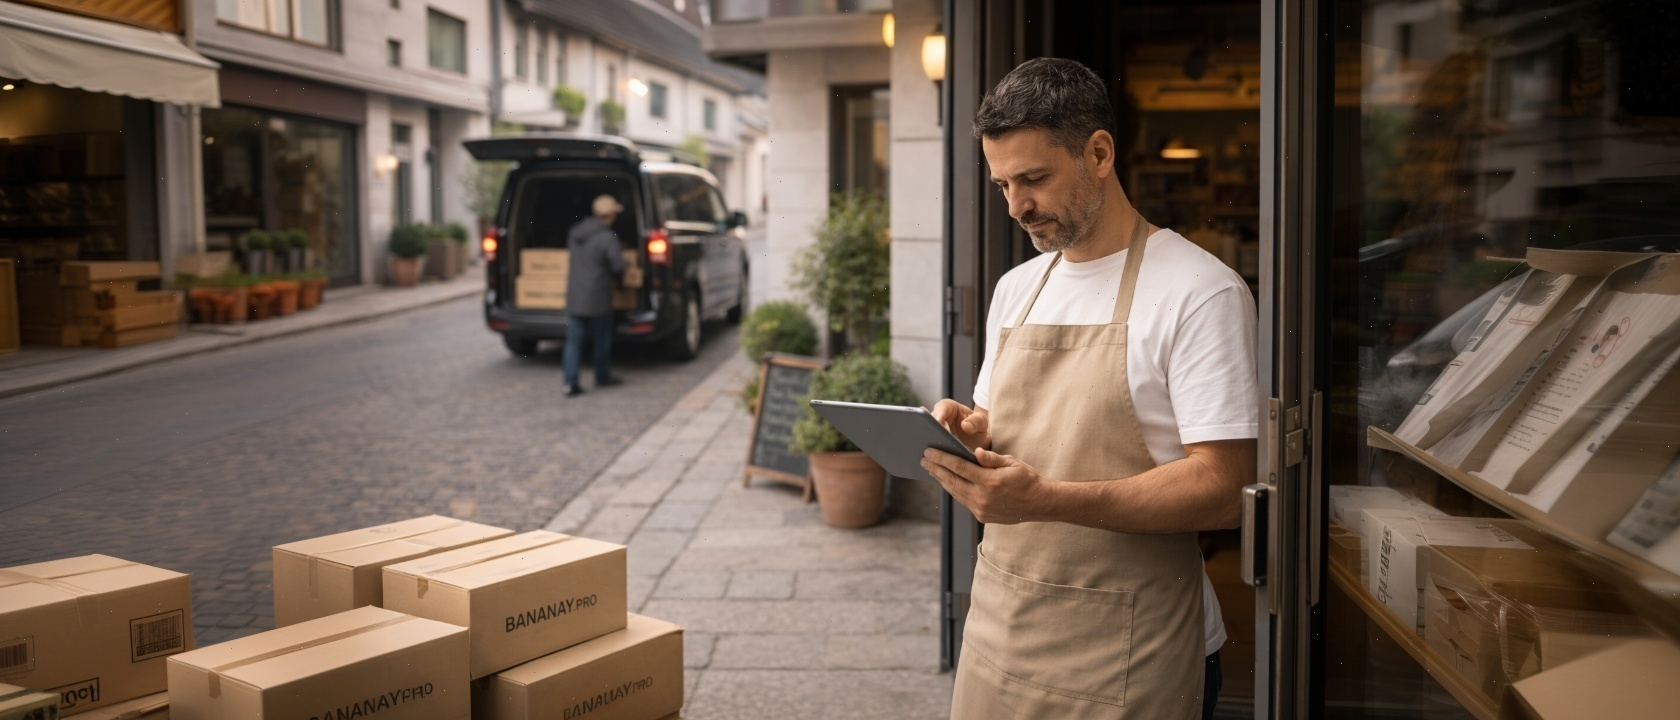
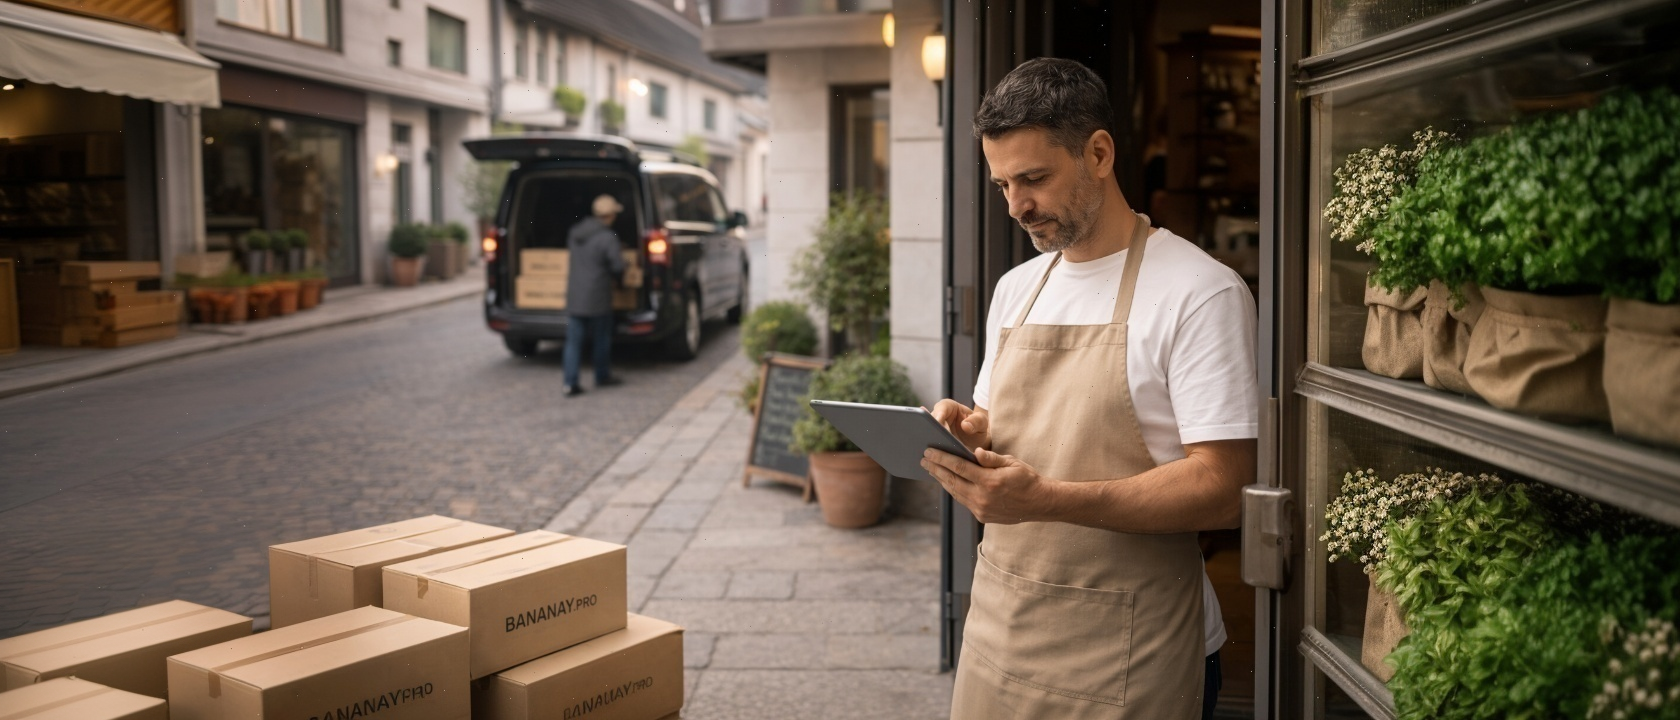
new design

Changed region(s): [[0.65, 0.0, 1.0, 1.0], [0.0, 0.7639, 0.1857, 1.0]]

diff --git a/src/app/[locale]/page.tsx b/src/app/[locale]/page.tsx
@@ -1,107 +1,185 @@
 'use client';
 
-import { useTranslations } from 'next-intl';
+import Image from 'next/image';
 import { useRouter } from '@/i18n/routing';
-import { HeroSection } from '@/components/hero/hero-section';
 import { RedirectWhenAuthenticated } from '@/components/auth/redirect-when-authenticated';
 import { Button } from '@/components/ui/button';
-import { Card } from '@/components/ui/card';
-import { Check, ListChecks, MapPinned, ShieldCheck } from 'lucide-react';
+import { Check } from 'lucide-react';
 
 export default function HomePage() {
-  const t = useTranslations('HowItWorks');
-  const tWhy = useTranslations('WhyBecomeCourier');
-  const tCta = useTranslations('HomeCta');
   const router = useRouter();
+  const steps = [
+    {
+      number: '01',
+      title: 'Видите входящие поставки',
+      text: 'Что едет в ваше заведение и в каком статусе.',
+    },
+    {
+      number: '02',
+      title: 'Отслеживаете доставку',
+      text: 'Где находится поставка и когда прибудет.',
+    },
+    {
+      number: '03',
+      title: 'Смотрите историю',
+      text: 'Все прошлые доставки в одном месте.',
+    },
+  ];
+  const benefits = [
+    'Актуальный статус доставки',
+    'Что едет и когда прибудет',
+    'История всех поставок',
+    'Меньше звонков и уточнений',
+    'Понятный процесс получения',
+  ];
 
   return (
     <RedirectWhenAuthenticated>
-      <div className="flex flex-col">
-        <HeroSection />
+      <div className="flex flex-col bg-white text-slate-900">
+        <section className="relative flex min-h-[75vh] items-center overflow-hidden">
+          <div
+            aria-hidden
+            className="absolute inset-0 bg-cover bg-center bg-no-repeat"
+            style={{ backgroundImage: "url('/hero.png')" }}
+          />
+          <div aria-hidden className="absolute inset-0 bg-slate-950/45" />
+          <div className="relative mx-auto flex min-h-[72vh] max-w-7xl items-center px-4 py-10 sm:px-6 md:py-14 lg:px-8">
+            <div className="flex w-full flex-col justify-center">
+              <h1 className="text-4xl font-bold leading-[1.15] tracking-tight text-white sm:text-5xl lg:text-6xl">
+                Все поставки в ваше заведение - под контролем.
+              </h1>
 
-        {/* Как это работает */}
-        <section className="bg-gray-50 py-6 md:py-8">
-          <div className="mx-auto max-w-6xl px-4 sm:px-6 lg:px-8">
-            <div className="mb-4 text-center">
-              <h2 className="text-2xl font-bold text-[#1e3a8a] md:text-3xl">
-                {t('title')}
-              </h2>
-            </div>
-            <div className="mx-auto grid w-max max-w-full grid-cols-1 gap-3 md:grid-cols-3 md:gap-4 md:[grid-template-columns:repeat(3,minmax(12rem,1fr))]">
-              <Card className="flex min-w-0 max-w-[18rem] flex-col items-center gap-2 border-gray-200 p-4 py-4 text-center shadow-sm md:mx-0 md:min-w-[12rem] md:max-w-[16rem] mx-auto">
-                <h3 className="text-lg font-semibold leading-tight text-gray-800">
-                  <span className="text-[#22c55e]">1 </span>
-                  {t('step1Title')}
-                </h3>
-                <div className="my-0 flex items-center justify-center rounded-full bg-blue-50 p-5">
-                  <MapPinned className="h-12 w-12 text-blue-700" />
-                </div>
-                <p className="mt-0 text-sm text-gray-600">{t('step1Desc')}</p>
-              </Card>
-              <Card className="flex min-w-0 max-w-[18rem] flex-col items-center gap-2 border-gray-200 p-4 py-4 text-center shadow-sm md:mx-0 md:min-w-[12rem] md:max-w-[16rem] mx-auto">
-                <h3 className="text-lg font-semibold leading-tight text-gray-800">
-                  <span className="text-[#22c55e]">2 </span>
-                  {t('step2Title')}
-                </h3>
-                <div className="my-0 flex items-center justify-center rounded-full bg-amber-50 p-5">
-                  <ListChecks className="h-12 w-12 text-amber-600" />
-                </div>
-                <p className="mt-0 text-sm text-gray-600">{t('step2Desc')}</p>
-              </Card>
-              <Card className="flex min-w-0 max-w-[18rem] flex-col items-center gap-2 border-gray-200 p-4 py-4 text-center shadow-sm md:mx-0 md:min-w-[12rem] md:max-w-[16rem] mx-auto">
-                <h3 className="text-lg font-semibold leading-tight text-gray-800">
-                  <span className="text-[#22c55e]">3 </span>
-                  {t('step3Title')}
-                </h3>
-                <div className="my-0 flex items-center justify-center rounded-full bg-green-50 p-5">
-                  <ShieldCheck className="h-12 w-12 text-green-600" />
-                </div>
-                <p className="mt-0 text-sm text-gray-600">{t('step3Desc')}</p>
-              </Card>
+              <p className="mt-6 w-full text-lg leading-8 text-slate-100">
+                Статусы, движение и история поставок - в одном интерфейсе.
+              </p>
+
+              <div className="mt-10 flex flex-wrap gap-4">
+                <Button
+                  size="lg"
+                  className="rounded-2xl bg-[#1e3a8a] px-6 text-base font-semibold text-white hover:bg-[#1d4ed8]"
+                  onClick={() => router.push('/login')}
+                >
+                  Зарегистрироваться
+                </Button>
+                <Button
+                  variant="outline"
+                  size="lg"
+                  className="rounded-2xl border-white/55 bg-white/5 px-6 text-base font-semibold text-white/90 hover:bg-white/15 hover:text-white"
+                  onClick={() => router.push('/login')}
+                >
+                  Войти в приложение
+                </Button>
+              </div>
             </div>
           </div>
         </section>
-
-        {/* Разделительная линия */}
-        <div className="bg-gray-50 py-2" aria-hidden>
-          <div className="mx-auto max-w-3xl px-4">
-            <hr className="border-t border-gray-200" />
-          </div>
+        <div className="relative h-0 overflow-visible" aria-hidden="true">
+          <div className="pointer-events-none absolute inset-x-0 -top-3 h-6 bg-white/55 blur-md" />
         </div>
 
-        {/* Почему использовать отслеживание точек */}
-        <section className="bg-gray-50 py-8 md:py-10">
-          <div className="mx-auto max-w-3xl px-4 sm:px-6 lg:px-8">
-            <h2 className="mb-6 text-center text-2xl font-bold text-[#1e3a8a] md:text-3xl">
-              {tWhy('title')}
-            </h2>
-            <ul className="grid list-none gap-4 p-0 sm:grid-cols-2">
-              {[
-                tWhy('benefit1'),
-                tWhy('benefit2'),
-                tWhy('benefit3'),
-                tWhy('benefit4'),
-                tWhy('benefit5'),
-                tWhy('benefit6'),
-              ].map((label, i) => (
-                <li key={i} className="flex gap-4">
-                  <span className="mt-0.5 flex h-6 w-6 flex-shrink-0 items-center justify-center rounded-full bg-[#22c55e]">
-                    <Check className="h-4 w-4 text-white" />
+        <section className="bg-white">
+          <div className="mx-auto max-w-7xl px-4 py-8 sm:px-6 lg:px-8 lg:py-10">
+            <div className="max-w-3xl">
+              <p className="text-sm font-semibold uppercase tracking-[0.18em] text-slate-400">Как это работает</p>
+              <h2 className="mt-4 text-3xl font-bold tracking-tight text-slate-950 sm:text-4xl">
+                Как это работает для вашего заведения
+              </h2>
+              <p className="mt-4 text-lg leading-8 text-slate-600">
+                Вы видите только то, что важно при получении товара - без лишних действий и перегруженных экранов.
+              </p>
+            </div>
+
+            <div className="mt-10 grid gap-12 lg:grid-cols-3 lg:gap-16">
+              {steps.map((step, index) => (
+                <div
+                  key={step.number}
+                  className={index === 0 ? 'pt-1' : 'pt-1 lg:border-l lg:border-slate-200 lg:pl-10'}
+                >
+                  <div className="text-5xl font-extrabold tracking-tight text-[#1d4ed8]">{step.number}</div>
+                  <h3 className="mt-7 text-2xl font-bold tracking-tight text-slate-950">{step.title}</h3>
+                  <p className="mt-3 text-base leading-7 text-slate-600">{step.text}</p>
+                </div>
+              ))}
+            </div>
+          </div>
+        </section>
+        <div className="relative h-0 overflow-visible" aria-hidden="true">
+          <div className="pointer-events-none absolute inset-x-0 -top-3 h-6 bg-white/55 blur-md" />
+        </div>
+
+        <section className="relative bg-slate-50 py-10">
+          <div className="absolute inset-0">
+            <div className="absolute bottom-0 left-1/2 top-0 w-full max-w-7xl -translate-x-1/2 overflow-hidden px-6">
+              <Image
+                src="/img.png"
+                alt=""
+                fill
+                className="object-contain object-right"
+                sizes="(max-width: 1280px) 100vw, 1280px"
+              />
+              <div
+                className="absolute inset-0 bg-[linear-gradient(to_right,rgb(248_250_252)_0%,rgb(248_250_252)_52%,rgba(248,250,252,0.62)_64%,rgba(248,250,252,0.22)_76%,rgb(248_250_252)_100%)]"
+                aria-hidden
+              />
+              <div
+                className="absolute inset-y-0 left-0 w-24 bg-gradient-to-r from-slate-50/95 via-slate-50/65 to-transparent"
+                aria-hidden
+              />
+              <div
+                className="absolute inset-y-0 right-0 w-20 bg-gradient-to-l from-slate-50/55 to-transparent"
+                aria-hidden
+              />
+            </div>
+          </div>
+          <div className="relative z-10 mx-auto flex max-w-7xl flex-col justify-start px-4 sm:px-6 lg:px-8">
+            <div className="max-w-xl lg:pr-8">
+              <p className="text-sm font-semibold uppercase tracking-[0.18em] text-slate-400">Преимущества</p>
+              <h2 className="mt-4 text-3xl font-bold tracking-tight text-slate-950 sm:text-4xl">
+                Почему это удобно
+              </h2>
+            </div>
+
+            <ul className="mt-8 max-w-xl space-y-6">
+              {benefits.map((benefit) => (
+                <li key={benefit} className="flex items-start gap-4">
+                  <span className="mt-1 flex h-7 w-7 shrink-0 items-center justify-center rounded-full bg-[#1e3a8a] text-white">
+                    <Check className="h-4 w-4" />
                   </span>
-                  <span className="font-medium text-gray-900">{label}</span>
+                  <p className="text-lg leading-8 text-slate-700">{benefit}</p>
                 </li>
               ))}
             </ul>
-            <div className="mt-8 text-center">
-              <p className="mb-4 text-xl font-bold text-[#1e3a8a] md:text-2xl">
-                {tCta('title')}
-              </p>
+          </div>
+        </section>
+        <div className="relative h-0 overflow-visible" aria-hidden="true">
+          <div className="pointer-events-none absolute inset-x-0 -top-3 h-6 bg-slate-50/70 blur-md" />
+        </div>
+
+        <section className="bg-white">
+          <div className="mx-auto max-w-4xl px-4 pb-8 pt-12 text-center sm:px-6 lg:px-8 lg:pb-10 lg:pt-14">
+            <p className="text-sm font-semibold uppercase tracking-[0.18em] text-slate-400">Следующий шаг</p>
+            <h2 className="mt-4 text-3xl font-bold tracking-tight text-slate-950 sm:text-4xl">
+              Подключите свое заведение
+            </h2>
+            <p className="mx-auto mt-4 max-w-2xl text-lg leading-8 text-slate-600">
+              Зарегистрируйтесь или войдите, чтобы отслеживать поставки и историю.
+            </p>
+
+            <div className="mt-8 flex flex-wrap items-center justify-center gap-4">
               <Button
                 size="lg"
-                className="bg-[#f97316] px-8 py-6 text-base text-white hover:bg-[#ea580c]"
+                className="rounded-2xl bg-[#1e3a8a] px-6 text-base font-semibold text-white hover:bg-[#1d4ed8]"
                 onClick={() => router.push('/login')}
               >
-                {tCta('button')}
+                Зарегистрироваться
+              </Button>
+              <Button
+                variant="outline"
+                size="lg"
+                className="rounded-2xl border-slate-300 bg-white px-6 text-base font-semibold text-slate-800 hover:bg-slate-50"
+                onClick={() => router.push('/login')}
+              >
+                Войти в приложение
               </Button>
             </div>
           </div>
